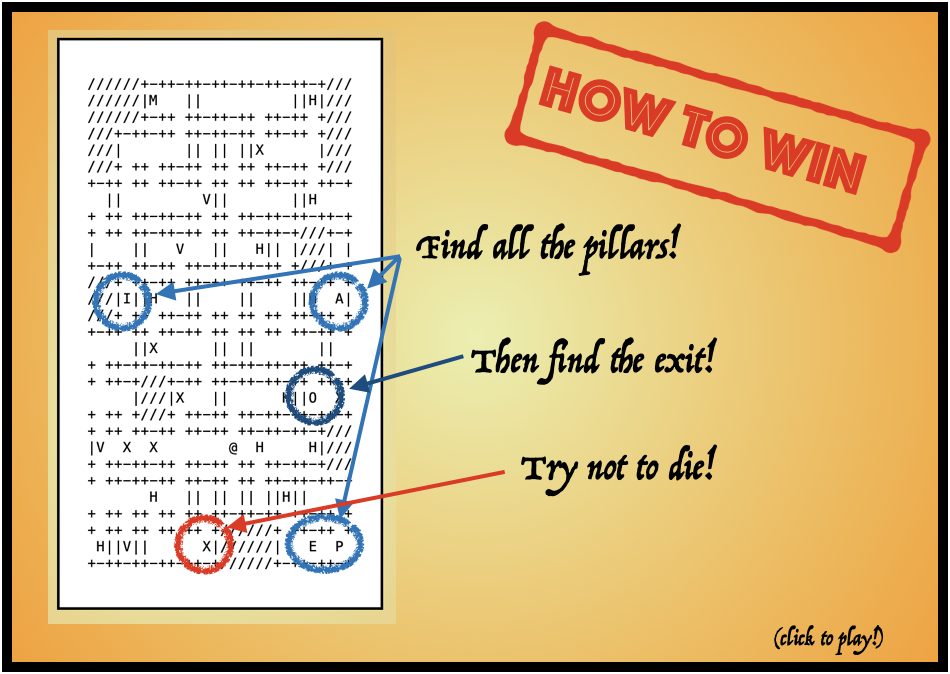
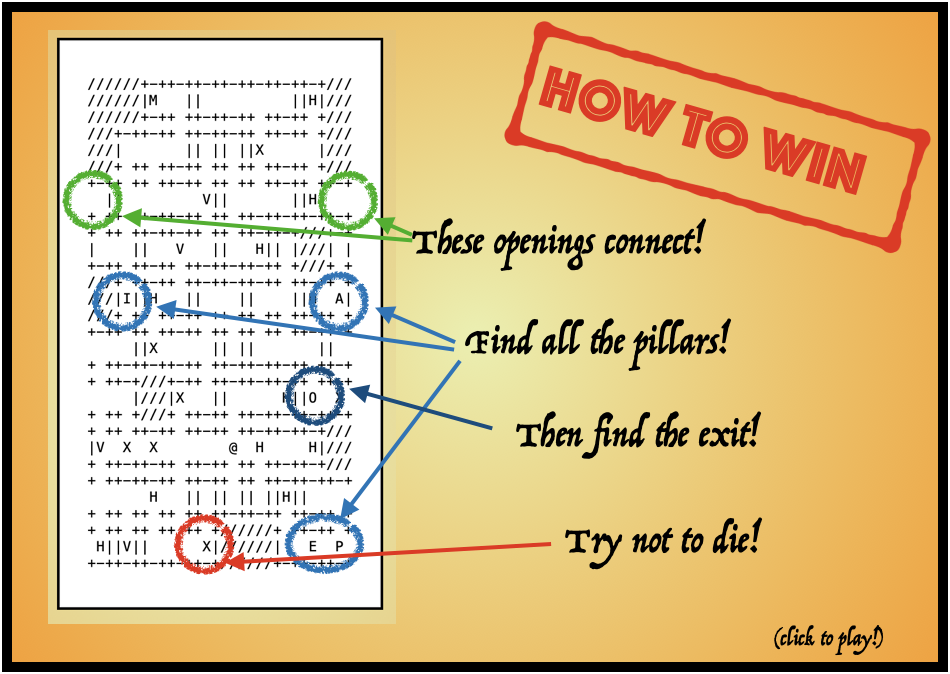
updated game instructions

diff --git a/dungeon_adventure.py b/dungeon_adventure.py
@@ -384,7 +384,8 @@ class DungeonAdventure:
         within the maze to either restore your HP (health points) by pressing the 'h' button. Or, to help you see 
         deeper within the maze, press the 'j' button. If You wish to check your adventurers stats, press the 'q' button.
         Once you've found all four pillars of OO, find the room with the 0 mark in the maze and enter it to complete the
-         maze.""")
+        maze. Important to note, if the edges have holes, you can walk through them and it'll warp you to the other 
+        side of the maze!!!""")
         button.pack()
 
     def dungeon_key_images(self):

diff --git a/dungeon.py b/dungeon.py
@@ -35,7 +35,7 @@ class Dungeon():
 
         # we have 4 pillars and an exit to place
         pillars = ["E", "I", "A", "P"]
-        exit_room = 35 + self.__diff * 5
+        exit_room = 30 + self.__diff * 10
 
         # next, continue adding and linking rooms
         while rooms_to_build:
